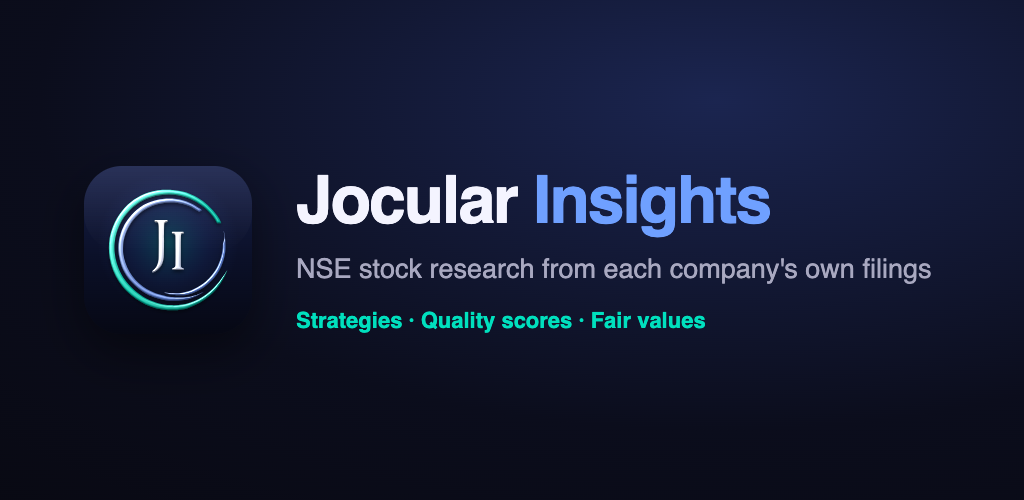
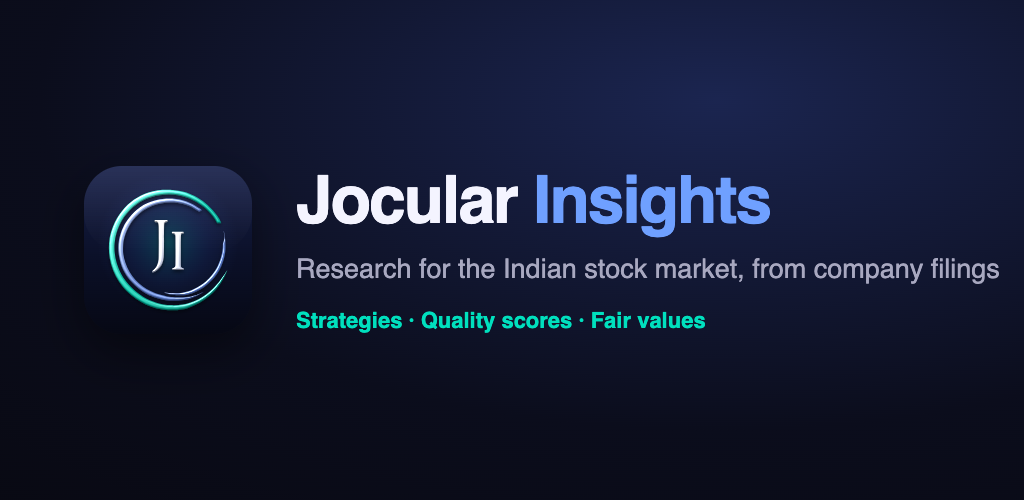
Play listing: "Indian stock market" wording and new framed screenshots
The store pictures are now a headline over the app in a phone frame, with
the key part of each screen lifted out (scripts/play-frames.mjs). They are
made from iPhone-shaped shots on the live data (PLAY_TALL=1). The shots are:
screeners, news (Results tab), SBIN's page and score, the full market map
(1-month view) and the watchlist. The feature graphic's line no longer
leads with NSE. Sent for Google's review on 14 Nov 2026.

Changed region(s): [[0.2812, 0.51, 0.9688, 0.57]]

diff --git a/replica/launch/play-listing.md b/replica/launch/play-listing.md
@@ -6,6 +6,21 @@ remakes them). Wording rules: research language only — no "multibagger
 picks", "sure-shot", "target price", returns or buy/sell calls; Jocular
 Insights is not SEBI-registered, so the listing says it's educational.
 
+## 14 Nov 2026 draft: "Indian stock market", NSE only as the source (owner: "it says NSE not indian stock market")
+
+**Short description** (75): `Indian stock market research: stock screener, quality scores and fair value`
+
+**Full description** — the 5 Nov text below with these changes:
+- first paragraph: `Jocular Insights is a stock screener for the Indian stock market. Research every listed company from its own filings, screen the whole market in seconds, and see which stocks fit what you look for.`
+- "the company's own announcements to NSE" → "the company's own announcements to the stock exchange"
+- "a market map of every NSE stock" → "a market map of every listed stock"
+- "THE INDIAN SHARE MARKET AT A GLANCE" → "THE INDIAN STOCK MARKET AT A GLANCE"
+- "Prices are NSE daily closing prices" → "Prices are daily closing prices from the National Stock Exchange (NSE)" (the source, kept)
+
+**Pictures, sent 14 Nov 2026** (`replica/launch/play/framed-first/`, made by `PLAY_TALL=1 node scripts/play-assets.mjs` then `PLAY_BG=first node scripts/play-frames.mjs`, on the 13 Nov close): a headline over the app in an iPhone-shaped frame (the owner's choice, though it is an Android app), on the navy-to-black background, with the key part of each screen lifted out as a glowing card. 1 "27 ready-made screeners" · 2 "Results, the day they're filed" (news, Results tab: companies' own announcements only) · 3 "Every company on one page" (SBIN: +13.2% a year) · 4 "A quality score out of 100" (SBIN 71, Strong overall) · 5 "The whole market at a glance" (the market map, full screen, 1-month view) · 6 "Your watchlist, kept for you". Feature graphic line: "Research for the Indian stock market, from company filings".
+
+**Sent for review 14 Nov 2026** (owner: "Send"): 4 changes (short description, full description, phone screenshots, feature graphic) → Publishing overview → "Changes in review". The "AI asset declaration" on the listing's Review step was left unanswered (Claude was blocked from choosing; the pictures are real app screens composed by script, not AI-made: the owner may set "Don't label assets").
+
 ## Store listing
 
 **5 Nov 2026, for searches on "stocks" and "screener" (the owner's aim).**

diff --git a/handoff/LOG.md b/handoff/LOG.md
@@ -316,3 +316,4 @@ Owner: "the news is not understandable". Looked at 10 apps (Inshorts' one-line c
 - 14 Nov 2026 (daily results push): Google 0 accepted (Quota Exceeded on the first, EICHERMOT; today's quota already used); IndexNow 100 results pages sent. Slot B Short: Eicher Motors Q2 FY27 ("steady": profit +14.9% to ₹1,573 cr, sales +20.3%, margin 23.7% from 24.5%), scheduled 14 Nov 9 pm IST https://youtube.com/shorts/1QMMXLmzbzw; queued as tonight's Reel. Morning Reel (BEL) posted https://www.instagram.com/reel/Dfti7FUBF-V/ (AI label on; no "Share to Facebook" switch shown).
 
 - 14 Nov 2026: **Google Play approved** — the app is live (com.jocularinsights.app, 8 countries); IARC rating notice the same day.
+- **14 Nov 2026:** Play listing refreshed and sent for review (owner: "Send"): short and full description now say "Indian stock market" (NSE only as the price source), new feature graphic, 6 new framed screenshots (scripts/play-frames.mjs; replica/launch/play/framed-first/). Google review usually within 7 days. AI asset declaration left for the owner.
